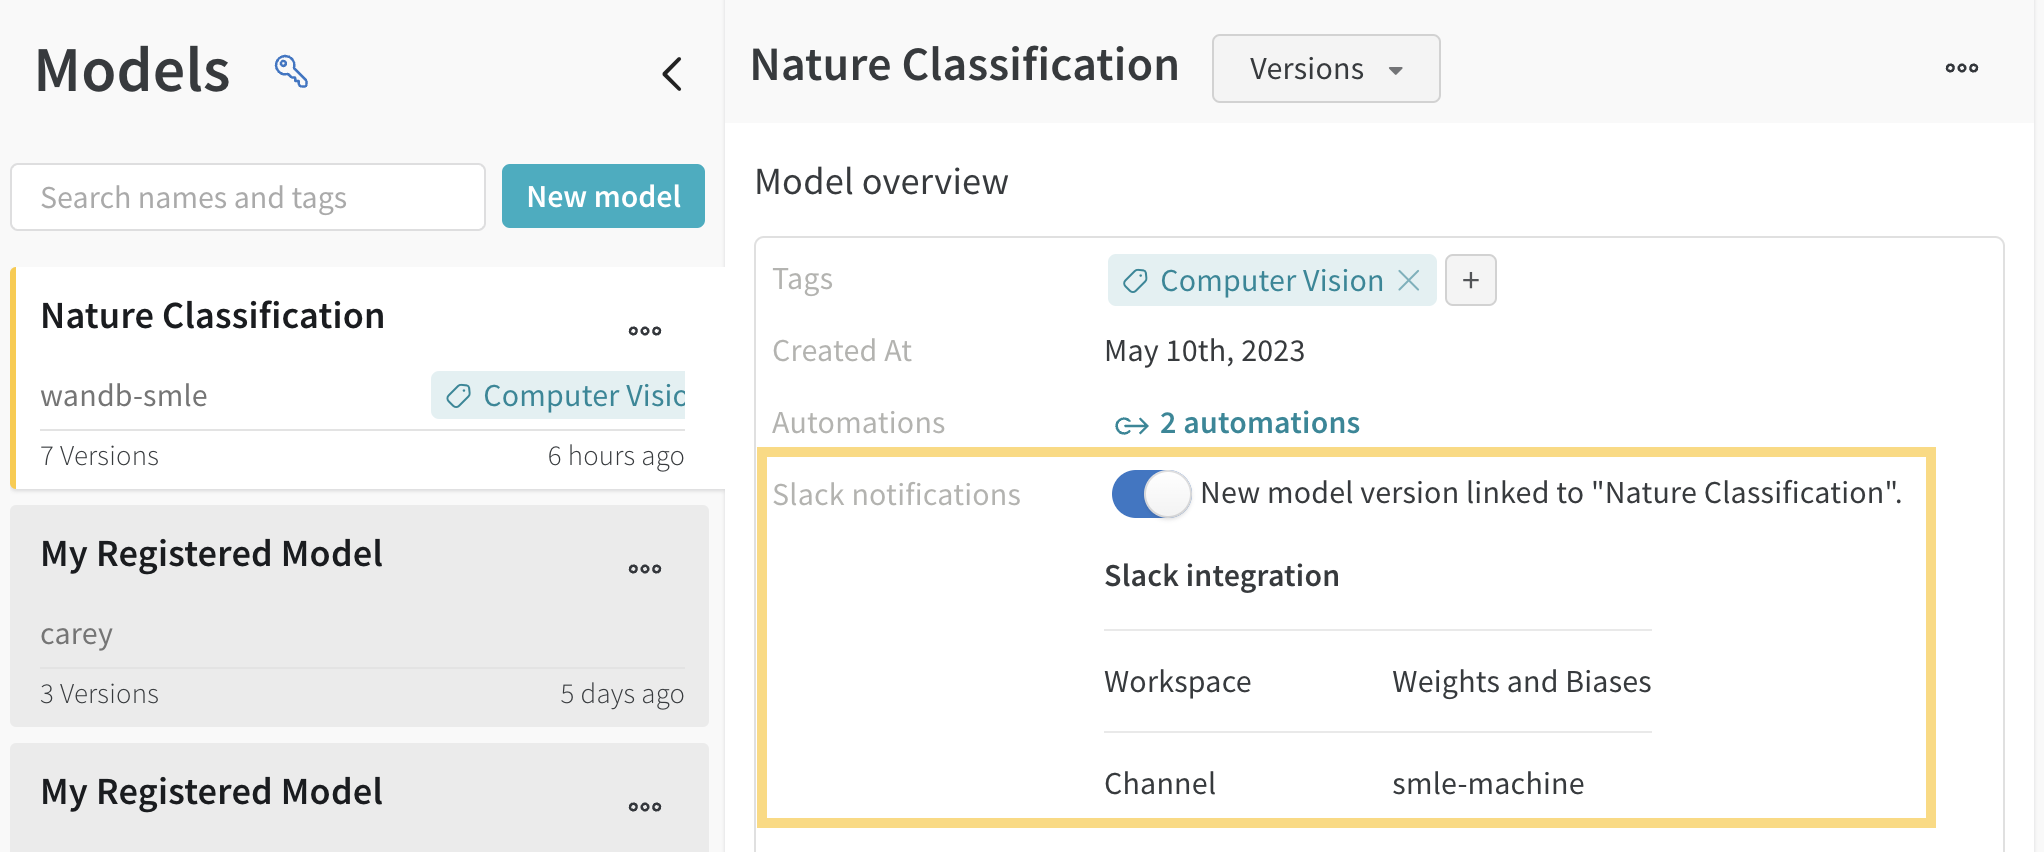
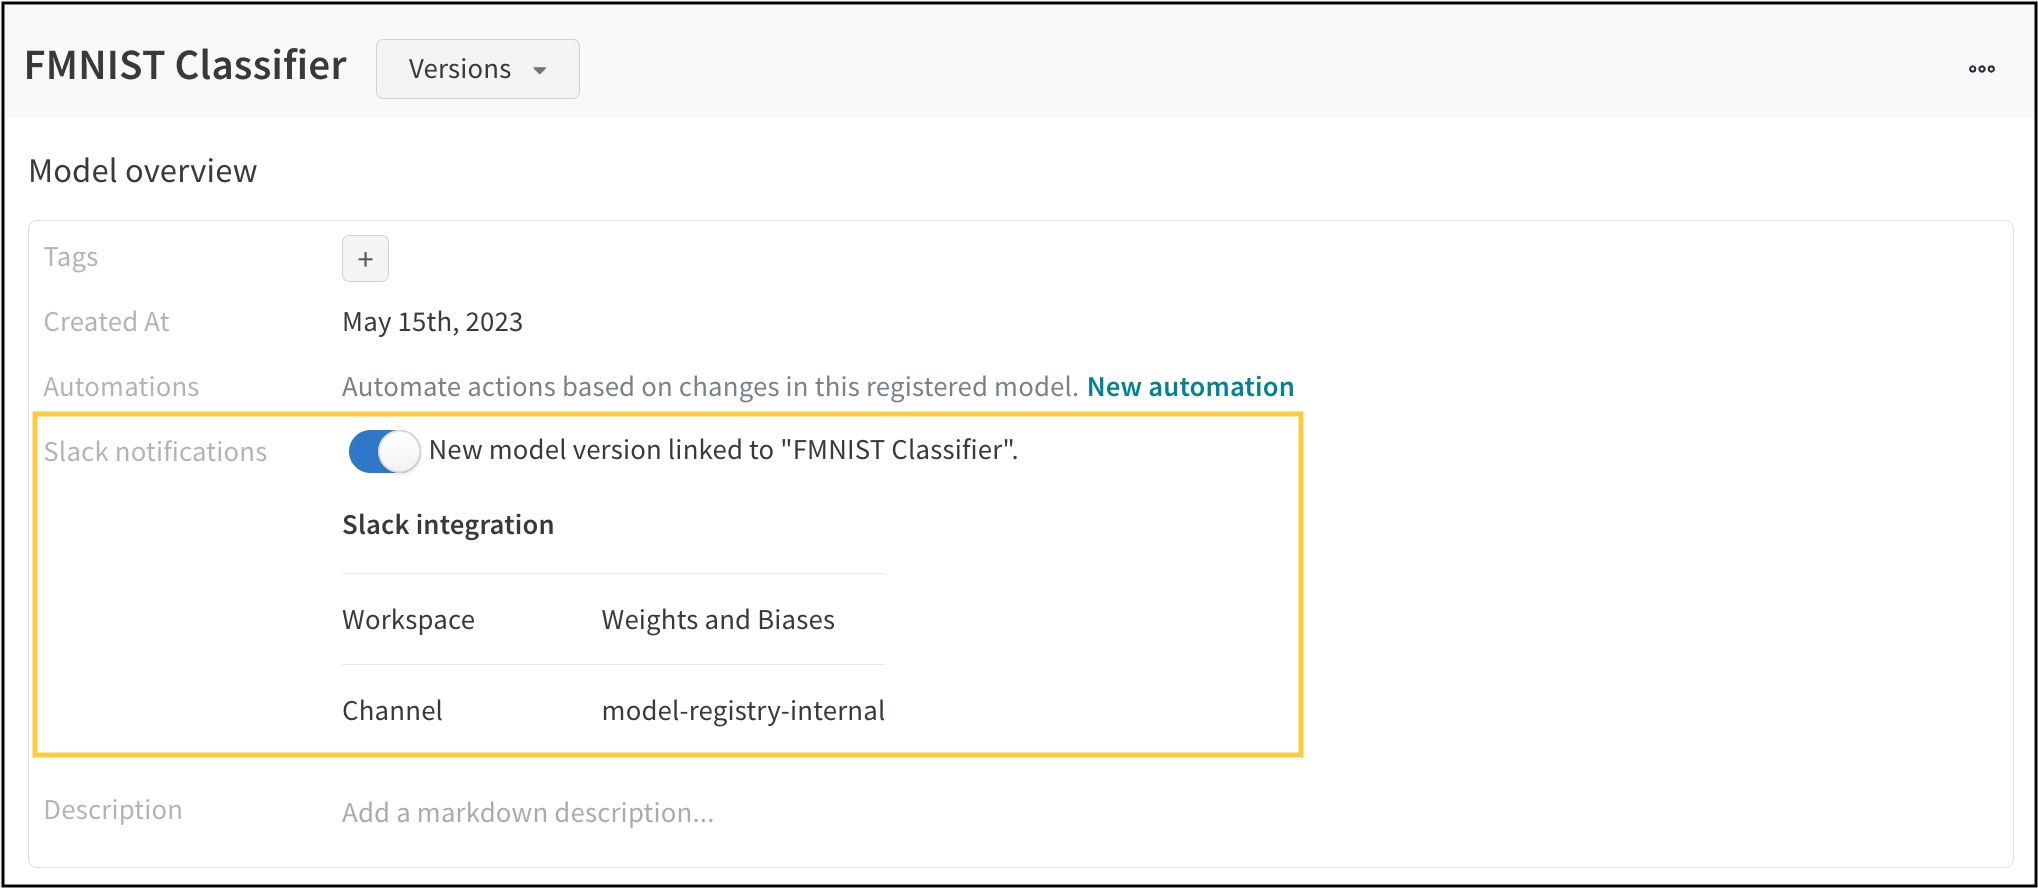
Updated notifications and tags page. Replaced outdated images

diff --git a/docs/guides/models/automation.md b/docs/guides/models/automation.md
@@ -3,16 +3,12 @@ description: Use an Automation for model CI (automated model evaluation pipeline
 displayed_sidebar: default
 ---
 
-# Automations
-Use Automations to trigger workflow steps. An Automation is an event, action pair where a specific event in W&B will kick off a downstream action, such as a [Launch Job](../launch/create-job.md).  For example, you can create an event that automatically completed model testing and deployment.
-
-:::note
-Automations currently supports completing events on your own infrastructure with W&B Launch. 
-:::
+# Automate workflows
+Create an automation to trigger workflow steps based on an event you configure. For example, you can create an event that automatically tests new models versions added to a registered model. Automations are executed on your own infrastructure with [W&B Launch](../launch/intro.md).  
 
 
-## Types of automation
-You can automatically trigger actions based on two types of events:
+## Automation event types
+There are two types of events that can trigger an action:
 
 1. **A new version is added to a registered model**: Each time a new model version is linked, this automation will run. This is useful for Model CI — run testing on each new model candidate. 
 
@@ -20,19 +16,29 @@ You can automatically trigger actions based on two types of events:
 
 ![](/images/models/automations_sidebar_step_1.png)
 
-## Infrastructure
 
-Use [Launch](../launch/intro.md) to set up a connection to your own compute resources, whether that’s a GPU machine at your desk or a scalable cloud Kubernetes cluster.
 
-<!-- ## Walkthrough
-For a step by step guide on how to use Automations for Model CI, check out [this](https://wandb.ai/examples/wandb_automations/reports/Model-CI-with-W-B-Automations--Vmlldzo0NDY5OTIx) report. -->
 
 
 ## Create an automation
-
 1. Navigate to the W&B Model Registry app at [https://wandb.ai/registry/model](https://wandb.ai/registry/model).
 2. Select **View details** next to the name of the registered model you want to create an automation for.
 3. Scroll down the page to the **Automations** section.
 ![](/images/models/automations_section_in_registry.png)
 4. Click on the **New automation** button. 
-5. 
+5. A model will appear. From the **Event type** dropdown, select an event type.
+
+Select a tab based on the event type you defined:
+
+
+
+
+
+<!-- ## Walkthrough
+For a step by step guide on how to use Automations for Model CI, check out [this](https://wandb.ai/examples/wandb_automations/reports/Model-CI-with-W-B-Automations--Vmlldzo0NDY5OTIx) report. -->
+
+
+<!-- Update this later w/ webhook stuff -->
+<!-- ## Infrastructure
+
+Use [Launch](../launch/intro.md) to set up a connection to your own compute resources, whether that’s a GPU machine at your desk or a scalable cloud Kubernetes cluster. -->

diff --git a/docs/guides/models/notifications.md b/docs/guides/models/notifications.md
@@ -3,17 +3,25 @@ description: Get Slack notifications when a new model version is linked to the m
 displayed_sidebar: default
 ---
 
-# Notifications
-Get Slack notifications when a new model version is linked to the model registry. To do so, navigate to the Model Registry App at https://wandb.ai/wandb/registry/model and complete the following steps:
+# Slack notification for new model versions
+Get Slack notifications when a new model version is linked to the model registry. 
 
-1. Select the registered model you want to receive notifications from.
-2. Click on the **Connect Slack** button.
-3. Configure your notifications channel for your team. 
 
+1. Navigate to the W&B Model Registry app at [https://wandb.ai/registry/model](https://wandb.ai/registry/model).
+2. Select the registered model you want to receive notifications from.
+3. Click on the **Connect Slack** button.
 ![](/images/models/notifications_configure.png)
+4. This will redirect you to an OAuth page with instructions on how to enable W&B in your Slack workspace.
 
-4. Once you have configured Slack notification from your team, you can pick and choose registered models to get notifications from. 
 
-In the example below, the Nature Classification registered model has Slack notifications turned on. A message is automatically posted to the connected Slack channel when a new model version is linked to this registered model.
+
+
+Once you have configured Slack notifications for your team, you can pick and choose registered models to get notifications from. 
+
+:::info
+A toggle that reads **New model version linked to...** will appear instead of a **Connect Slack** button if you already have Slack notifications configured for your team.
+:::
+
+In the example below, the FMNIST Classification registered model has Slack notifications turned on. A message is automatically posted to the connected Slack channel when a new model version is linked to this registered model.
 
 ![](/images/models/notifications_example.png)

diff --git a/docs/guides/models/model_tags.md b/docs/guides/models/model_tags.md
@@ -3,11 +3,13 @@ description: Use tags to organize registered models into categories, and search 
 displayed_sidebar: default
 ---
 
-# Registered model tags
+# Organize models with tags
 Use tags to organize registered models into categories and to search over those categories. 
 
-1. Pick a registered model from the Model Registry.
-2. Go to the **Overview** section to add a new tag. 
-3. Click the plus button (square with a plus icon) and search over existing tags or create a new tag.
+1. Navigate to the W&B Model Registry app at [https://wandb.ai/registry/model](https://wandb.ai/registry/model).
+2. Select a registered model.
+2. Go to the ** Model overview** section.
+3. Click the plus button (**+**).
+4. Search or create a new tag.
 
 ![](/images/models/model_tags.png)

diff --git a/docs/guides/models/access_controls.md b/docs/guides/models/access_controls.md
@@ -3,7 +3,7 @@ description: Use model registry role based access controls (RBAC) to control who
 displayed_sidebar: default
 ---
 
-# Assign protected aliases
+# Protected model aliases
 Use *protected aliases* to represent key stages of your model development pipeline. Protected aliases can only be added, modified, or removed by *Model Registry Admins*. Model registry admins can define and use protected aliases. Non admin users are blocked from adding and removing protected aliases from model versions.
 
 :::info
